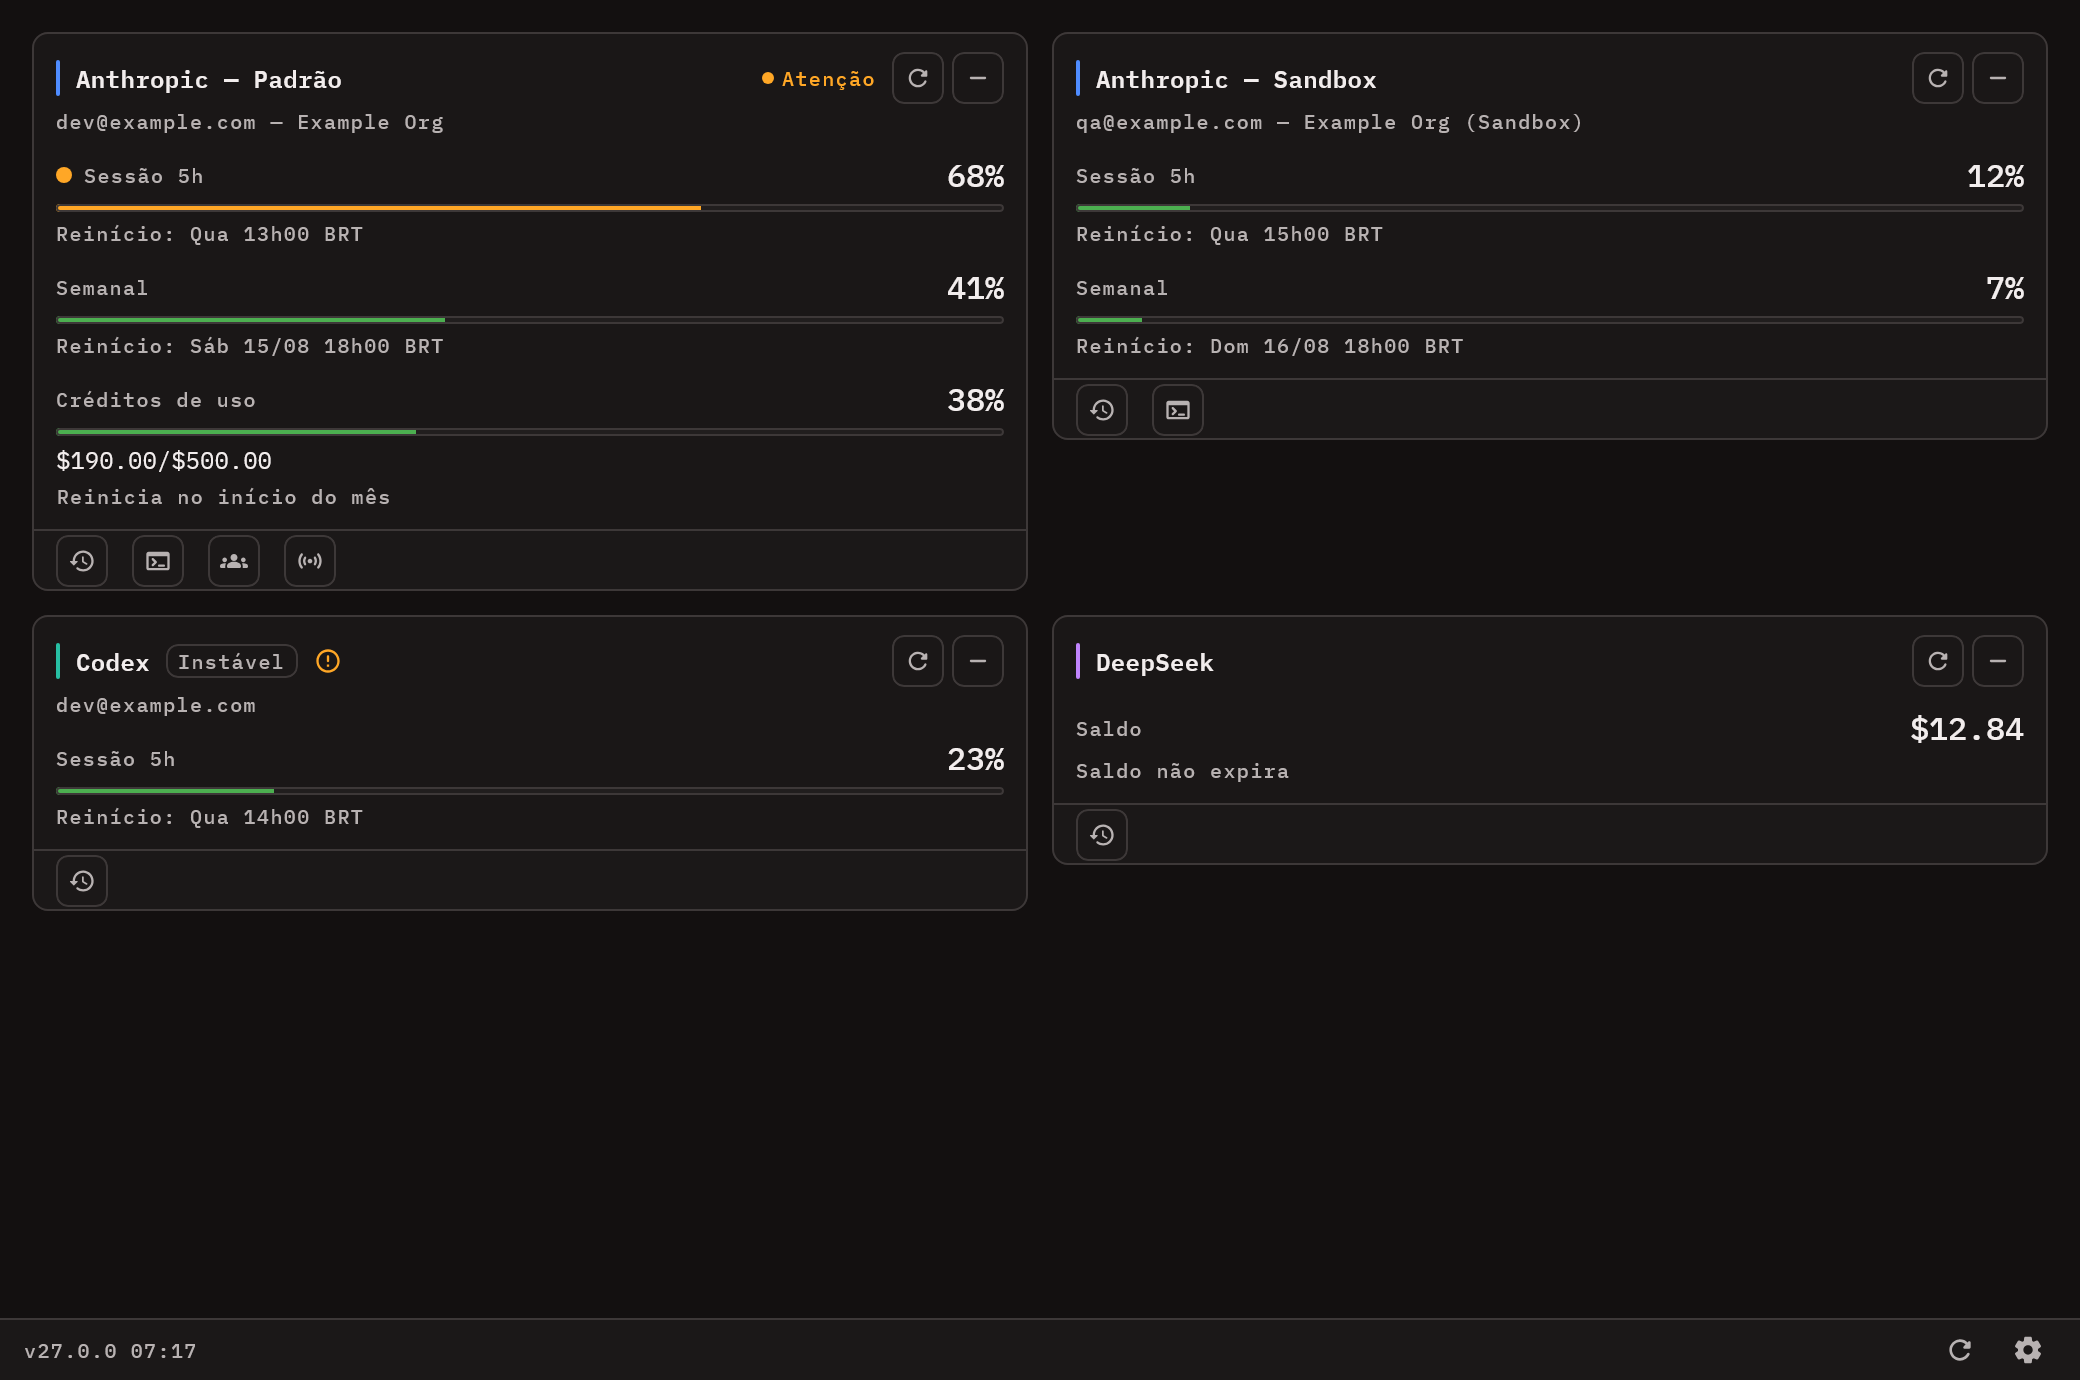
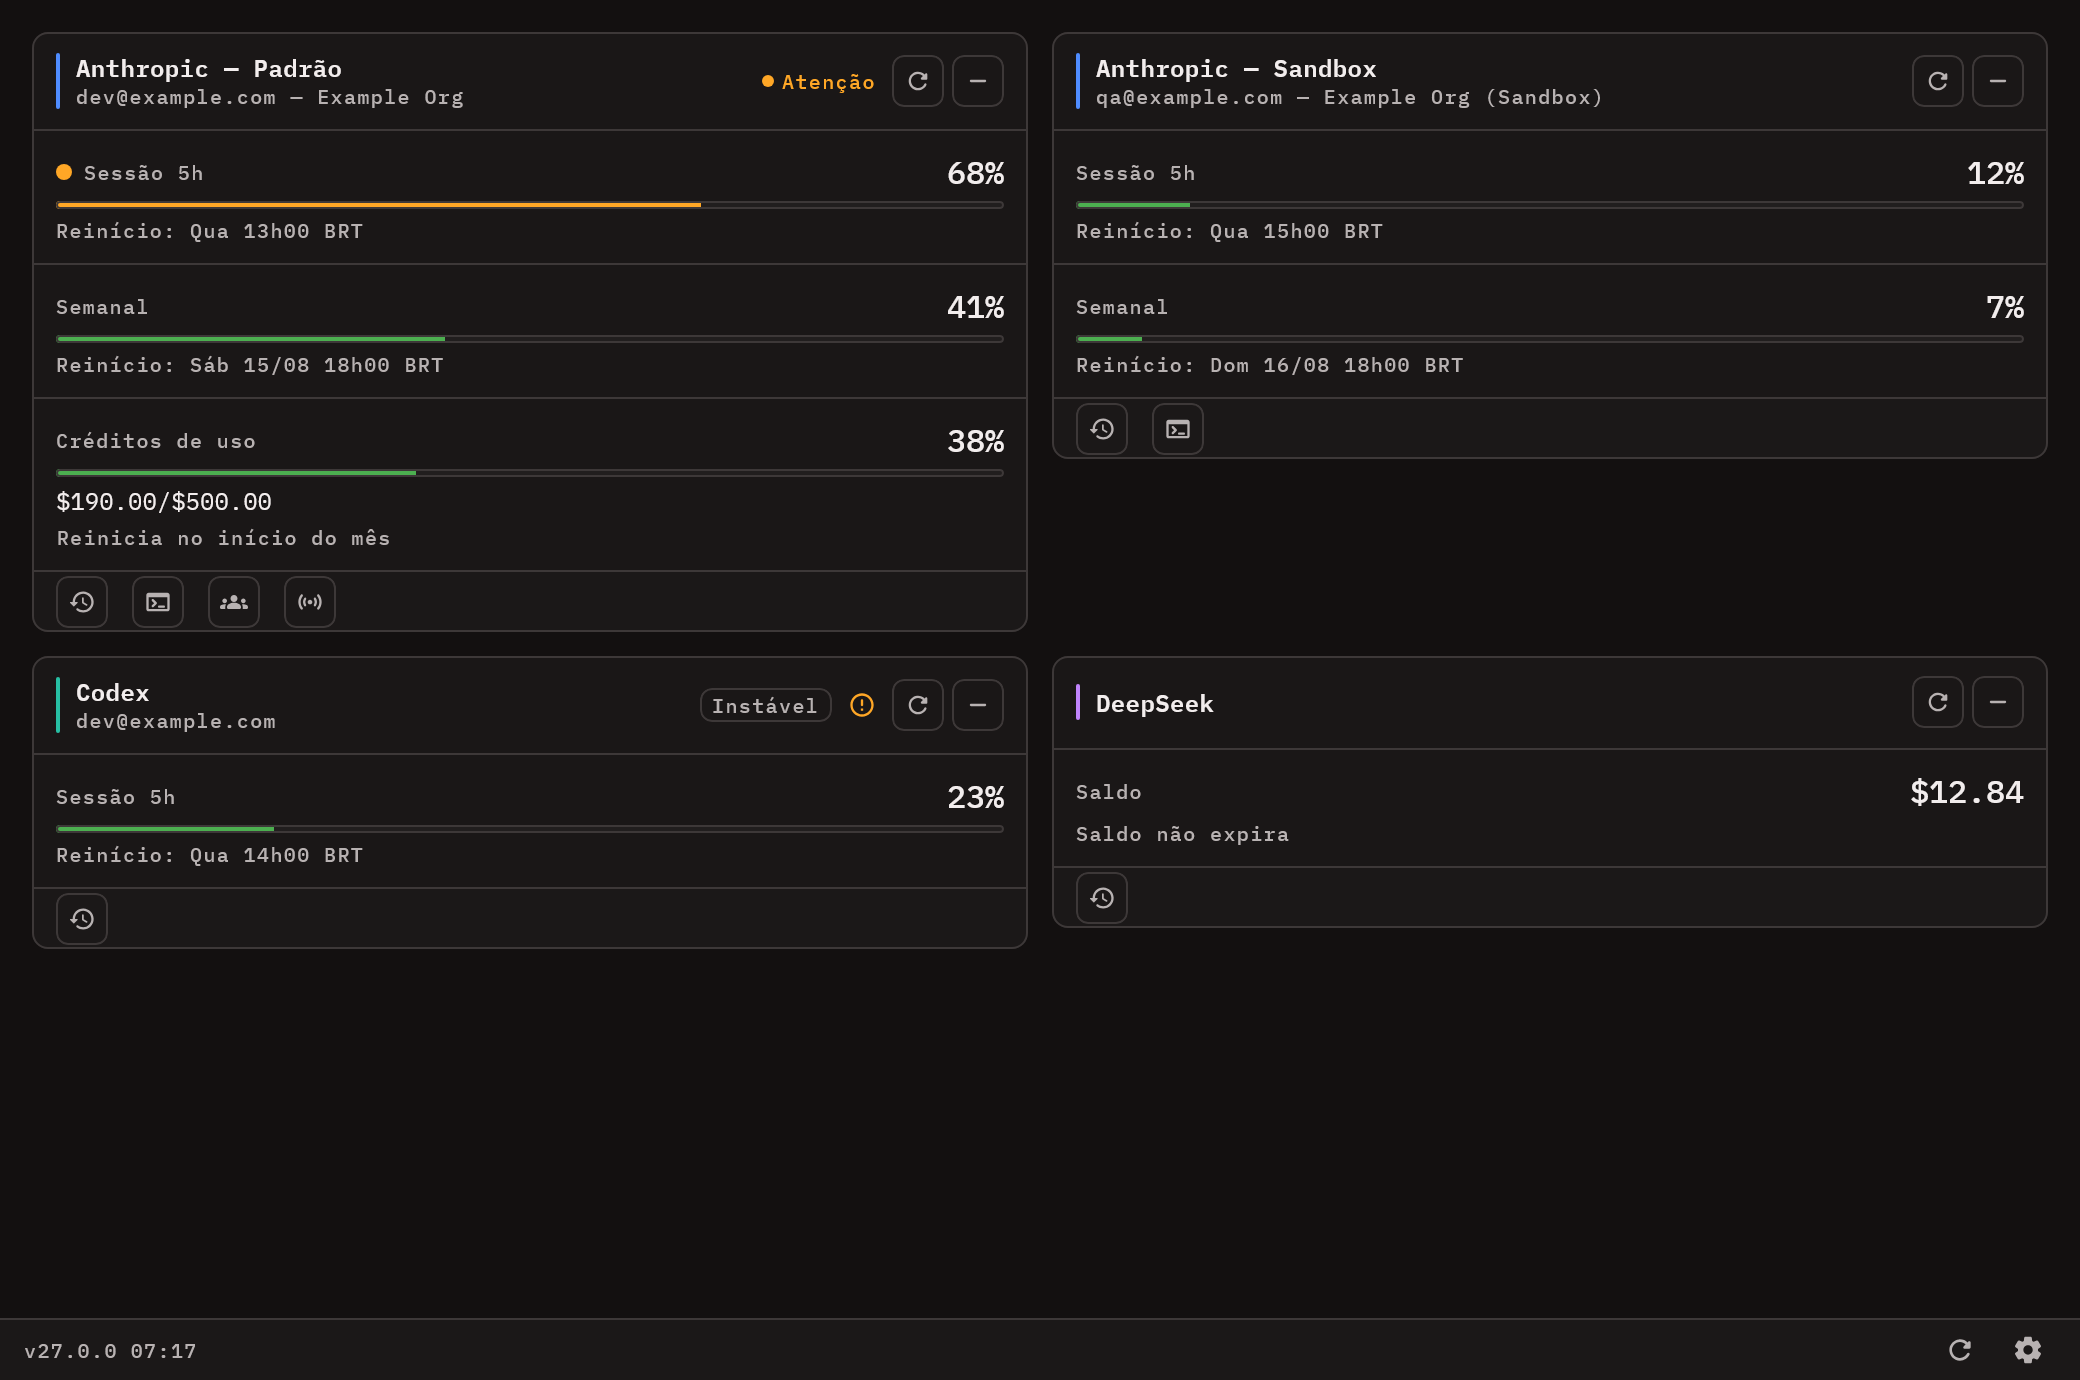
refactor(dashboard): give the card the panel anatomy of the prototype
O card tinha a superficie certa — borda de 1dp, raio 8, elevacao zero — e o
conteudo errado dentro dela: um bloco unico com padding em volta de tudo, sem
divisoria sob o cabecalho e com as cotas separadas por vao. Tres cotas liam como
tres blocos empilhados.

Agora e o `.panel` do prototipo: cabecalho com padding proprio, divisoria, e as
cotas como linhas de dados que trazem a propria divisoria de ponta a ponta. Com o
padding num bloco so em volta, a divisoria pararia a 12dp de cada lado e a lista
deixaria de ler como tabela.

A conta virou subtitulo do titulo, na mesma coluna — era uma linha de largura
cheia abaixo do cabecalho inteiro, alinhada a borda do card e nao ao titulo de
que ela e o subtitulo. O marcador de fonte cresce de 18 para 28dp quando ha
conta, para cobrir as duas linhas.

Badge e resumo do OpenCode continuam sendo blocos e recebem o padding do card:
bloco encostado na borda nao tem onde respirar.

diff --git a/src/commonMain/kotlin/com/usagemonitor/presentation/ui/components/ApiUsageCard.kt b/src/commonMain/kotlin/com/usagemonitor/presentation/ui/components/ApiUsageCard.kt
@@ -297,20 +297,24 @@ fun ApiUsageCard(
             )
 
             Column(modifier = Modifier.fillMaxWidth()) {
-            Column(
-                modifier = Modifier
-                    .fillMaxWidth()
-                    .padding(
-                        horizontal = density.contentHorizontalPadding,
-                        vertical = density.contentVerticalPadding
-                    )
-            ) {
+                // O cabeçalho carrega o próprio padding e o conteúdo abaixo dele
+                // encosta na borda: é o `.pbody.flush` do protótipo, onde a
+                // divisória de cada cota atravessa o card de ponta a ponta. Com o
+                // padding num bloco só em volta de tudo, a divisória parava a 12dp
+                // de cada lado e a lista deixava de ler como tabela.
+                //
                 // `spacedBy` e não `SpaceBetween`: a coluna do título já leva
                 // `weight(1f)` e empurra o resto para a direita sozinha, e o
                 // arranjo por espaço não deixava vão entre o badge de estado e o
                 // primeiro botão — a palavra encostava no ícone.
                 Row(
-                    modifier = Modifier.fillMaxWidth().testTag(API_USAGE_CARD_HEADER_TAG),
+                    modifier = Modifier
+                        .fillMaxWidth()
+                        .padding(
+                            horizontal = density.contentHorizontalPadding,
+                            vertical = density.contentVerticalPadding
+                        )
+                        .testTag(API_USAGE_CARD_HEADER_TAG),
                     horizontalArrangement = Arrangement.spacedBy(density.headerSpacing),
                     verticalAlignment = Alignment.CenterVertically
                 ) {
@@ -323,19 +327,33 @@ fun ApiUsageCard(
                         // fundo inteiro do card, e com quatro cards abertos o
                         // dashboard virava quatro retângulos coloridos disputando
                         // a atenção que os números deviam ter.
-                        AppSourceMarker(color = accentColorFor(source = source, accents = AppAccents.current))
-                        HoverTooltipBox(
-                            title = apiName,
-                            metrics = emptyList(),
-                            modifier = Modifier.weight(1f, fill = false)
-                        ) {
-                            Text(
-                                text = apiName,
-                                style = MaterialTheme.typography.titleSmall,
-                                color = MaterialTheme.colorScheme.onSurface,
-                                maxLines = 1,
-                                overflow = TextOverflow.Ellipsis
-                            )
+                        AppSourceMarker(
+                            color = accentColorFor(source = source, accents = AppAccents.current),
+                            height = if (accountContext == null) 18.dp else 28.dp
+                        )
+                        // Título e conta na mesma coluna, como o `.ptitle`/`.psub`
+                        // do protótipo. A conta era uma linha de largura cheia
+                        // abaixo do cabeçalho inteiro, alinhada à borda do card e
+                        // não ao título de que ela é o subtítulo.
+                        Column(modifier = Modifier.weight(1f, fill = false)) {
+                            HoverTooltipBox(
+                                title = apiName,
+                                metrics = emptyList()
+                            ) {
+                                Text(
+                                    text = apiName,
+                                    style = MaterialTheme.typography.titleSmall,
+                                    color = MaterialTheme.colorScheme.onSurface,
+                                    maxLines = 1,
+                                    overflow = TextOverflow.Ellipsis
+                                )
+                            }
+                            if (accountContext != null) {
+                                AccountIdentityLabel(
+                                    account = accountContext,
+                                    language = language
+                                )
+                            }
                         }
                         source.statusBadgeLabel(language)?.let { badgeLabel ->
                             Text(
@@ -437,16 +455,7 @@ fun ApiUsageCard(
                     }
                 }
 
-                if (accountContext != null) {
-                    Spacer(modifier = Modifier.height(2.dp))
-                    AccountIdentityLabel(
-                        account = accountContext,
-                        language = language,
-                        modifier = Modifier.fillMaxWidth()
-                    )
-                }
-
-                Spacer(modifier = Modifier.height(10.dp))
+                AppDivider()
 
                 AnimatedContent(
                     targetState = isMinimized,
@@ -465,12 +474,21 @@ fun ApiUsageCard(
                     },
                     label = "cardLayoutMode"
                 ) { minimized ->
+                    // Só a cota expandida é linha de tabela e traz a própria
+                    // divisória de ponta a ponta. Badge e resumo do OpenCode são
+                    // blocos, e bloco encostado na borda não tem onde respirar:
+                    // esses dois recebem o padding do card.
+                    val blockPadding = Modifier.padding(
+                        horizontal = density.contentHorizontalPadding,
+                        vertical = density.contentVerticalPadding
+                    )
                     if (source.isObservedActivitySource()) {
                         OpenCodeUsageSummary(
                             source = source,
                             quotas = orderedQuotas,
                             language = language,
-                            compact = minimized
+                            compact = minimized,
+                            modifier = blockPadding
                         )
                     } else if (minimized) {
                         CompactQuotaSummary(
@@ -482,7 +500,8 @@ fun ApiUsageCard(
                             density = density,
                             stacked = stackCompactQuotas,
                             showTooltip = showQuotaTooltip,
-                            now = now
+                            now = now,
+                            modifier = blockPadding
                         )
                     } else {
                         ExpandedQuotaSummary(
@@ -496,8 +515,6 @@ fun ApiUsageCard(
                         )
                     }
                 }
-
-            }
 
             // As quatro ações de navegação desceram do cabeçalho para uma barra
             // própria. No topo elas dividiam espaço com atualizar e minimizar, que
@@ -1289,19 +1306,27 @@ private fun ExpandedQuotaSummary(
     now: Instant,
     modifier: Modifier = Modifier
 ) {
-    Column(
-        modifier = modifier.fillMaxWidth(),
-        verticalArrangement = Arrangement.spacedBy(density.expandedQuotaSpacing)
-    ) {
-        quotas.forEach { quota ->
-            QuotaRow(
-                quota = quota,
-                showUsageDetails = showUsageDetails,
-                language = language,
-                risk = riskByQuotaKey[quota.seriesKey],
-                showTooltip = showTooltip,
-                now = now
-            )
+    // Linha de dados, com divisória própria e sem vão entre elas: é a mesma
+    // decisão da lista do time. O vão fazia três cotas lerem como três blocos
+    // empilhados, e sem a divisória o rótulo de uma encostava no reinício da
+    // anterior sem nada dizendo onde uma termina.
+    Column(modifier = modifier.fillMaxWidth()) {
+        quotas.forEachIndexed { index, quota ->
+            AppDataRow(
+                showDivider = index != quotas.lastIndex,
+                horizontalPadding = density.contentHorizontalPadding,
+                verticalPadding = density.contentVerticalPadding
+            ) {
+                QuotaRow(
+                    quota = quota,
+                    showUsageDetails = showUsageDetails,
+                    language = language,
+                    risk = riskByQuotaKey[quota.seriesKey],
+                    showTooltip = showTooltip,
+                    now = now,
+                    modifier = Modifier.weight(1f)
+                )
+            }
         }
     }
 }
